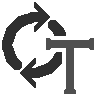
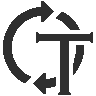
ver.1.5.4.0
1. Add feature that auto select translated language.
2. Remove "notifications" permission, because the notification is no longer needed by above feature.
3. Fix add-on's icon.

diff --git a/main.js b/main.js
@@ -15,7 +15,37 @@ const menu02 = browser.menus.create({
   id: ID02, title: title02, contexts: ['page']
 });
 
-/* Behavior */
+/* Functions */
+function autoSelectLanguageCode() {
+  let tempLanguageCode = browser.i18n.getUILanguage();
+
+  /* Fix for German */
+  if (tempLanguageCode.indexOf('de') != -1) {
+    tempLanguageCode = 'de';
+    return tempLanguageCode
+  }
+
+  /* Fix for English */
+  if (tempLanguageCode.indexOf('en') != -1) {
+    tempLanguageCode = 'en';
+    return tempLanguageCode
+  }
+
+  /* Fix for Spnish */
+  if (tempLanguageCode.indexOf('es') != -1) {
+    tempLanguageCode = 'es';
+    return tempLanguageCode
+  }
+
+  /* Fix for Portuguese */
+  if (tempLanguageCode.indexOf('pt') != -1) {
+    tempLanguageCode = 'pt';
+    return tempLanguageCode
+  }
+
+  return tempLanguageCode
+}
+
 function openByNewWindow(url, specifySize, sizeWidth, sizeHeight) {
   if (specifySize == true) {
     browser.windows.create({ url: url, width: sizeWidth, height: sizeHeight });
@@ -28,33 +58,25 @@ function openByNewTab(url) {
   browser.tabs.create({ url: url });
 }
 
-function notificationNotSetup() {
-  browser.notifications.create('notificationNS', {
-    'type'   : 'basic',
-    'title'  : 'Notification from add-on \"Quick translate\"',
-    'message': browser.i18n.getMessage('notificationTextNotSetup')
-  });
-  setTimeout( () => { browser.notifications.clear('notificationNS'); }, 5000);
-}
-
 browser.menus.onClicked.addListener( (info) => {
   browser.storage.local.get()
     .then( (obj) => {
-      if (obj.translationService == null) {
+      if (obj.translationService == undefined) {
         obj.translationService = "Google";
       }
       switch (info.menuItemId) {
         case ID01:
-          if ( (obj.openMethodText == null) || (obj.languageCode == null) ) {
-            notificationNotSetup();
+          if (obj.openMethodText == undefined) {
             obj.openMethodText = 'tab';
-            obj.languageCode   = 'en';
+          }
+          if ( (obj.languageCode == undefined) || (obj.languageCode == 'auto') ) {
+            obj.languageCode = autoSelectLanguageCode();
           }
           const targetText = info.selectionText
             .replace(/\%/g, '％')
-            .replace(/\&/g, '%26')
-            .replace(/\//g, '%2F')
-            .replace(/\|/g, '%7C');
+              .replace(/\&/g, '%26')
+                .replace(/\//g, '%2F')
+                  .replace(/\|/g, '%7C');
           let urlTranslateText = obj.languageCode+'&text='+targetText;
           switch (obj.translationService) {
             case "Google":
@@ -74,10 +96,11 @@ browser.menus.onClicked.addListener( (info) => {
           } /* End: switch (obj.openMethodText) */
           break; /* End: case ID01 */
         case ID02:
-          if ( (obj.openMethodWebsite == null) || (obj.languageCode == null) ) {
-            notificationNotSetup();
+          if (obj.openMethodWebsite == undefined) {
             obj.openMethodWebsite = 'tab';
-            obj.languageCode      = 'en';
+          }
+          if ( (obj.languageCode == undefined) || (obj.languageCode == 'auto') ) {
+            obj.languageCode = autoSelectLanguageCode();
           }
           let urlTranslateWebsite = info.pageUrl;
           switch (obj.translationService) {
@@ -104,13 +127,14 @@ browser.menus.onClicked.addListener( (info) => {
 browser.pageAction.onClicked.addListener( (tab) => {
   browser.storage.local.get()
     .then( (obj) => {
-      if (obj.translationService == null) {
+      if (obj.translationService == undefined) {
         obj.translationService = "Google";
       }
-      if ( (obj.openMethodWebsite == null) || (obj.languageCode == null) ) {
-        notificationNotSetup();
+      if (obj.openMethodWebsite == undefined) {
         obj.openMethodWebsite = 'tab';
-        obj.languageCode       = 'en';
+      }
+      if ( (obj.languageCode == undefined) || (obj.languageCode == 'auto') ) {
+        obj.languageCode = autoSelectLanguageCode();
       }
       let barUrl = tab.url;
       switch (obj.translationService) {

diff --git a/documents/options/option_script.js b/documents/options/option_script.js
@@ -18,7 +18,7 @@ browser.storage.local.get()
       document.querySelector('option[value="'+obj.languageCode+'"]').selected = true;
     }
 
-    document.getElementById('inputSpecifySize').checked          = obj.specifySize;
+    document.getElementById('inputSpecifySize').checked         = obj.specifySize;
     document.getElementById('inputSizeOfNewWindowWidth').value  = obj.sizeWidth;
     document.getElementById('inputSizeOfNewWindowHeight').value = obj.sizeHeight;
   });
@@ -55,20 +55,20 @@ document.getElementById('formLanguageCode').addEventListener('input', () => {
 
 /* For multilingual */
 document.getElementById('divBehaviorWhen').textContent             = browser.i18n.getMessage('optionPageBehaviorWhen');
-document.getElementById('bCaseOfText').textContent                 = browser.i18n.getMessage('optionPageCaseOfText');
-document.getElementById('bCaseOfWebsite').textContent              = browser.i18n.getMessage('optionPageCaseOfWebsite');
+document.getElementById('spanCaseOfText').textContent              = browser.i18n.getMessage('optionPageCaseOfText');
+document.getElementById('spanCaseOfWebsite').textContent           = browser.i18n.getMessage('optionPageCaseOfWebsite');
 document.getElementById('labelTextOpenByNewTab').textContent       = browser.i18n.getMessage('optionPageOpenByNewTab');
 document.getElementById('labelTextOpenByNewWindow').textContent    = browser.i18n.getMessage('optionPageOpenByNewWindow');
 document.getElementById('labelWebsiteOpenByNewTab').textContent    = browser.i18n.getMessage('optionPageOpenByNewTab');
 document.getElementById('labelWebsiteOpenByNewWindow').textContent = browser.i18n.getMessage('optionPageOpenByNewWindow');
-document.getElementById('bSizeOfNewWindow').textContent            = browser.i18n.getMessage('optionPageSizeOfNewWindow');
+document.getElementById('spanSizeOfNewWindow').textContent         = browser.i18n.getMessage('optionPageSizeOfNewWindow');
 document.getElementById('labelSpecifySizeOfWindow').textContent    = browser.i18n.getMessage('optionPageSpecifySizeOfWindow');
 document.getElementById('pWhenSetWH').textContent                  = browser.i18n.getMessage('optionPageWhenSetWH');
 
-document.getElementById('divTranslatedLanguage').textContent = browser.i18n.getMessage('optionPageTranslatedLanguage');
-document.getElementById('bSpecifyLanguageCode').textContent  = browser.i18n.getMessage('optionPageSpecifyLanguageCode');
-document.getElementById('pIfSetToEn').textContent            = browser.i18n.getMessage('optionPageIfSetEn');
+document.getElementById('divTranslatedLanguage').textContent   = browser.i18n.getMessage('optionPageTranslatedLanguage');
+document.getElementById('spanSpecifyLanguageCode').textContent = browser.i18n.getMessage('optionPageSpecifyLanguageCode');
+document.getElementById('pIfSetToEn').textContent              = browser.i18n.getMessage('optionPageIfSetEn');
 
-document.getElementById('divServiceUsedFor').textContent          = browser.i18n.getMessage('optionPageServiceUsedFor');
-document.getElementById('bSpecifyTranslationService').textContent = browser.i18n.getMessage('optionPageSpecifyTranslationService');
-document.getElementById('pWhenBingIsSelected').textContent        = browser.i18n.getMessage('optionPageWhenBingIsSelected');
+document.getElementById('divServiceUsedFor').textContent             = browser.i18n.getMessage('optionPageServiceUsedFor');
+document.getElementById('spanSpecifyTranslationService').textContent = browser.i18n.getMessage('optionPageSpecifyTranslationService');
+document.getElementById('pWhenBingIsSelected').textContent           = browser.i18n.getMessage('optionPageWhenBingIsSelected');

diff --git a/documents/options/option_page.html b/documents/options/option_page.html
@@ -38,30 +38,32 @@
 
       <div class="main">
         <p class="addon-version">
-          <span class="text-bold">Add-on version:</span> ver.1.5.3.0
+          <span class="text-bold">Add-on version:</span> ver.1.5.4.0
         </p>
         <h2>Options</h2>
           <h3>
             <div id="divBehaviorWhen" class="headline3-text">Behavior when translating</div>
           </h3>
           <form id="formOpenMethodText">
-            <b id="bCaseOfText">Case of text</b><br>
+            <span class="text-bold" id="spanCaseOfText">Case of text</span><br>
             <input type="radio" id="inputTextOpenByNewTab" name="nameTranslateText" value="tab">
               <label id="labelTextOpenByNewTab" for="inputTextOpenByNewTab">Open by new tab</label><br>
             <input type="radio" id="inputTextOpenByNewWindow" name="nameTranslateText" value="window">
               <label id="labelTextOpenByNewWindow" for="inputTextOpenByNewWindow">Open by new window</label><br>
           </form>
           <div class="border-dotted"></div>
+
           <form id="formOpenMethodWebsite">
-            <b id="bCaseOfWebsite">Case of website</b><br>
+            <b id="spanCaseOfWebsite">Case of website</b><br>
             <input type="radio" id="inputWebsiteOpenByNewTab" name="nameTranslateWebsite" value="tab">
               <label id="labelWebsiteOpenByNewTab" for="inputWebsiteOpenByNewTab">Open by new tab</label><br>
             <input type="radio" id="inputWebsiteOpenByNewWindow" name="nameTranslateWebsite" value="window">
               <label id="labelWebsiteOpenByNewWindow" for="inputWebsiteOpenByNewWindow">Open by new window</label><br>
           </form>
           <div class="border-dotted"></div>
+          
           <form id="formOpenMethodSpecifySize">
-            <b id="bSizeOfNewWindow">Size of new window</b><br>
+            <span class="text-bold" id="spanSizeOfNewWindow">Size of new window</span><br>
             <input type="checkbox" id="inputSpecifySize" name="nameSpecifySize">
               <label id="labelSpecifySizeOfWindow" for="inputSpecifySize">Specify the size of window(optional)</label>
             <p>
@@ -78,7 +80,7 @@
             <div id="divServiceUsedFor" class="headline3-text">Service used for translation</div>
           </h3>
           <form id="formTranslationService">
-            <b id="bSpecifyTranslationService">Specify a translation service</b>
+            <span class="text-bold" id="spanSpecifyTranslationService">Specify a translation service</span>
             <p>Translation service:
               <select id="selectTranslationService">
                 <option value="Google">Google</option>
@@ -96,10 +98,10 @@
             <div id="divTranslatedLanguage" class="headline3-text">Translated language</div>
           </h3>
           <form id="formLanguageCode">
-            <b id="bSpecifyLanguageCode">Specify a language code</b>
+            <span id="spanSpecifyLanguageCode">Specify a language code</span>
             <p>Language code:
               <select id="selectLanguageCode">
-                <option value="00">-select-</option>
+                <option value="auto">- auto -</option>
                 <option value="af">af - Afrikaans</option>
                 <option value="am">am - አማርኛ</option>
                 <option value="ar">ar - العربية</option>

diff --git a/documents/guides/ja/guide_page.html b/documents/guides/ja/guide_page.html
@@ -38,18 +38,17 @@
 
       <div class="main">
         <p class="date-info">
-          <span class="text-bold">最終更新日:<span> 2020年05月11日
+          <span class="text-bold">最終更新日:<span> 2020年05月13日
         </p>
         <h2>Guides</h2>
           <h3>
             <div class="headline3-text">初期セットアップ</div>
           </h3>
           <p>
-            このアドオンを初めてインストールした時(再インストールも含む)、翻訳語の言語は指定されていません。 この状態で機能を使った場合、テキストやウェブサイトは英語に翻訳され右下に通知が表示されます
+            このアドオンを初めてインストールした時(再インストールも含む)、翻訳後の言語はブラウザのロケールによって決まります。また翻訳結果は新しいタブで開かれます。 <br>
+            これらの設定の変更を行う項目はオプションページに存在します。(次の画像の赤枠部分)
           </p>
-          <p>
-            <span class="text-bold">このアドオンのオプションページで"翻訳時の動作"と"翻訳後の言語"のセットアップを行うと通知は表示されなくなります。</span>(次の画像の赤枠部分)
-          </p>
+
           <div class="guide-setup-link">
             <a href="_images/guide_setup.png" target="_blank">
               <img class="guide-setup-thumbnail" src="_images/guide_setup.png" alt="guide_setup.png">

diff --git a/documents/guides/en/guide_page.html b/documents/guides/en/guide_page.html
@@ -38,17 +38,15 @@
 
       <div class="main">
         <p class="date-info">
-          <span class="text-bold">Last updated:</span> 11st May 2020
+          <span class="text-bold">Last updated:</span> 13rd May 2020
         </p>
         <h2>Guides</h2>
           <h3>
             <div class="headline3-text">Initial setup</div>
           </h3>
           <p>
-            When this add-on is installed (including reinstallation), the language after translation has not been specified.  If you use the function in this state, the text or website will be translated into English and a notice will be displayed on the lower right.
-          </p>
-          <p>
-            <span class="text-bold">If you set up "Behavior when translating" and "Translated language" on the option page of this add-on, the notification will not be displayed.</span> (A red frame part of next image.)
+            When this add-on is installed (including reinstallation), the translated language depends on browser's locale. Also translation result is opened in a new tab.<br>
+            There are items to change these settings are on the options page. (Red frame part in the next image)
           </p>
           <div class="guide-setup-link">
             <a href="_images/guide_setup.png" target="_blank">

diff --git a/documents/style.css b/documents/style.css
@@ -1,3 +1,5 @@
+@charset "UTF-8";
+
 body
 {
   background: #e0e0e0;
